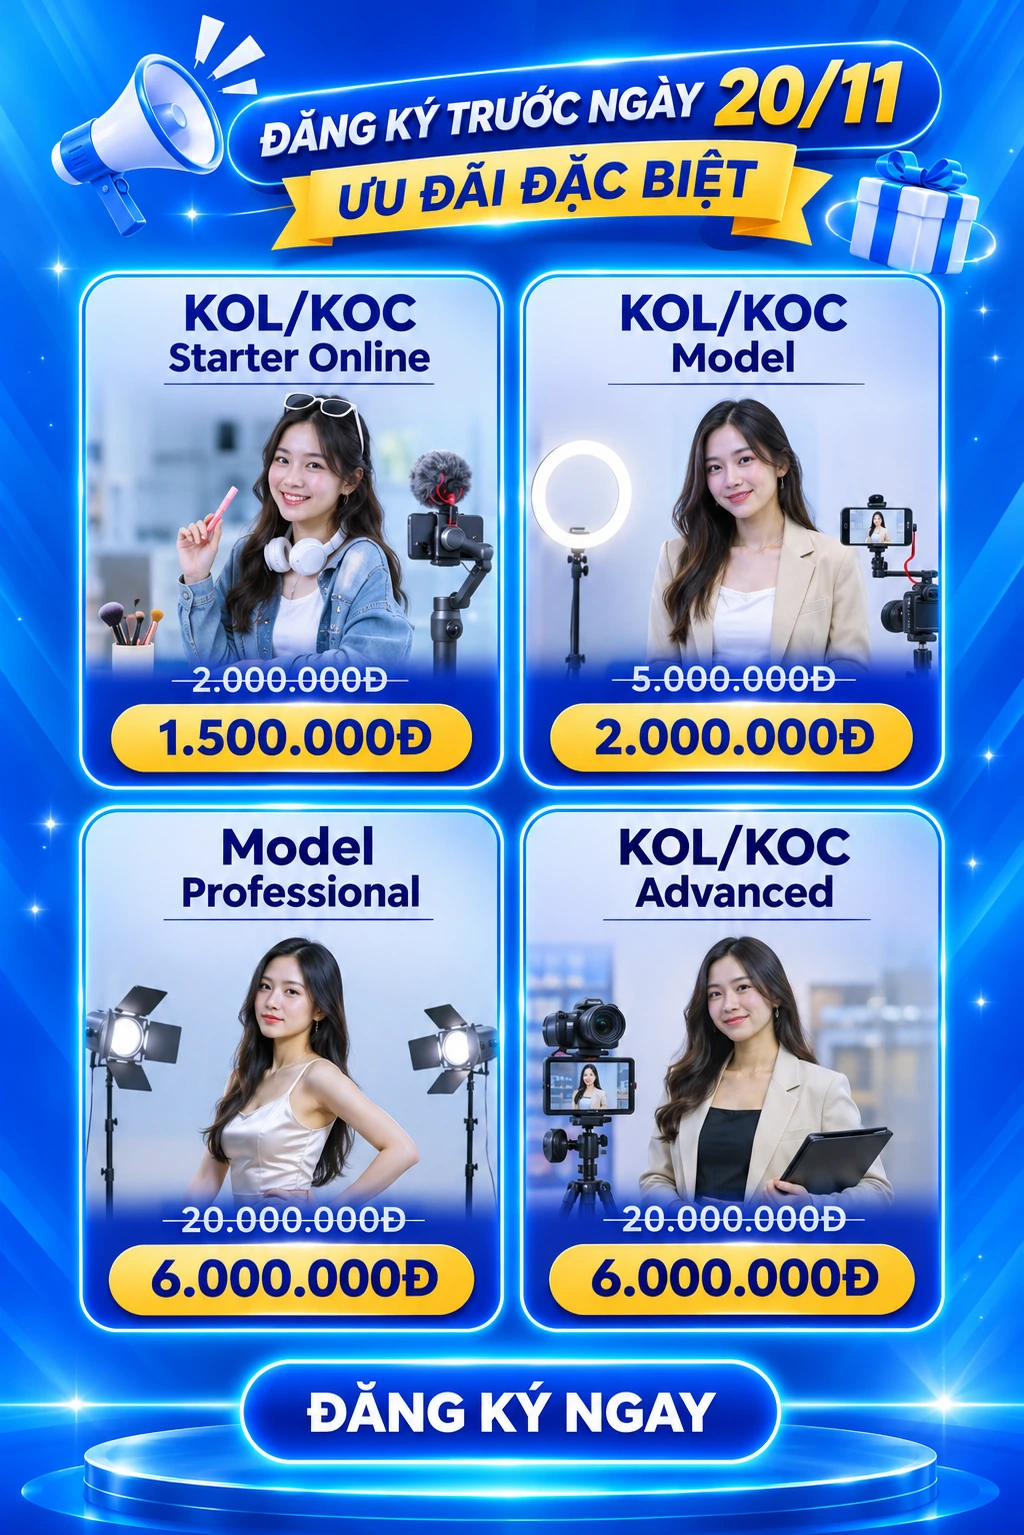
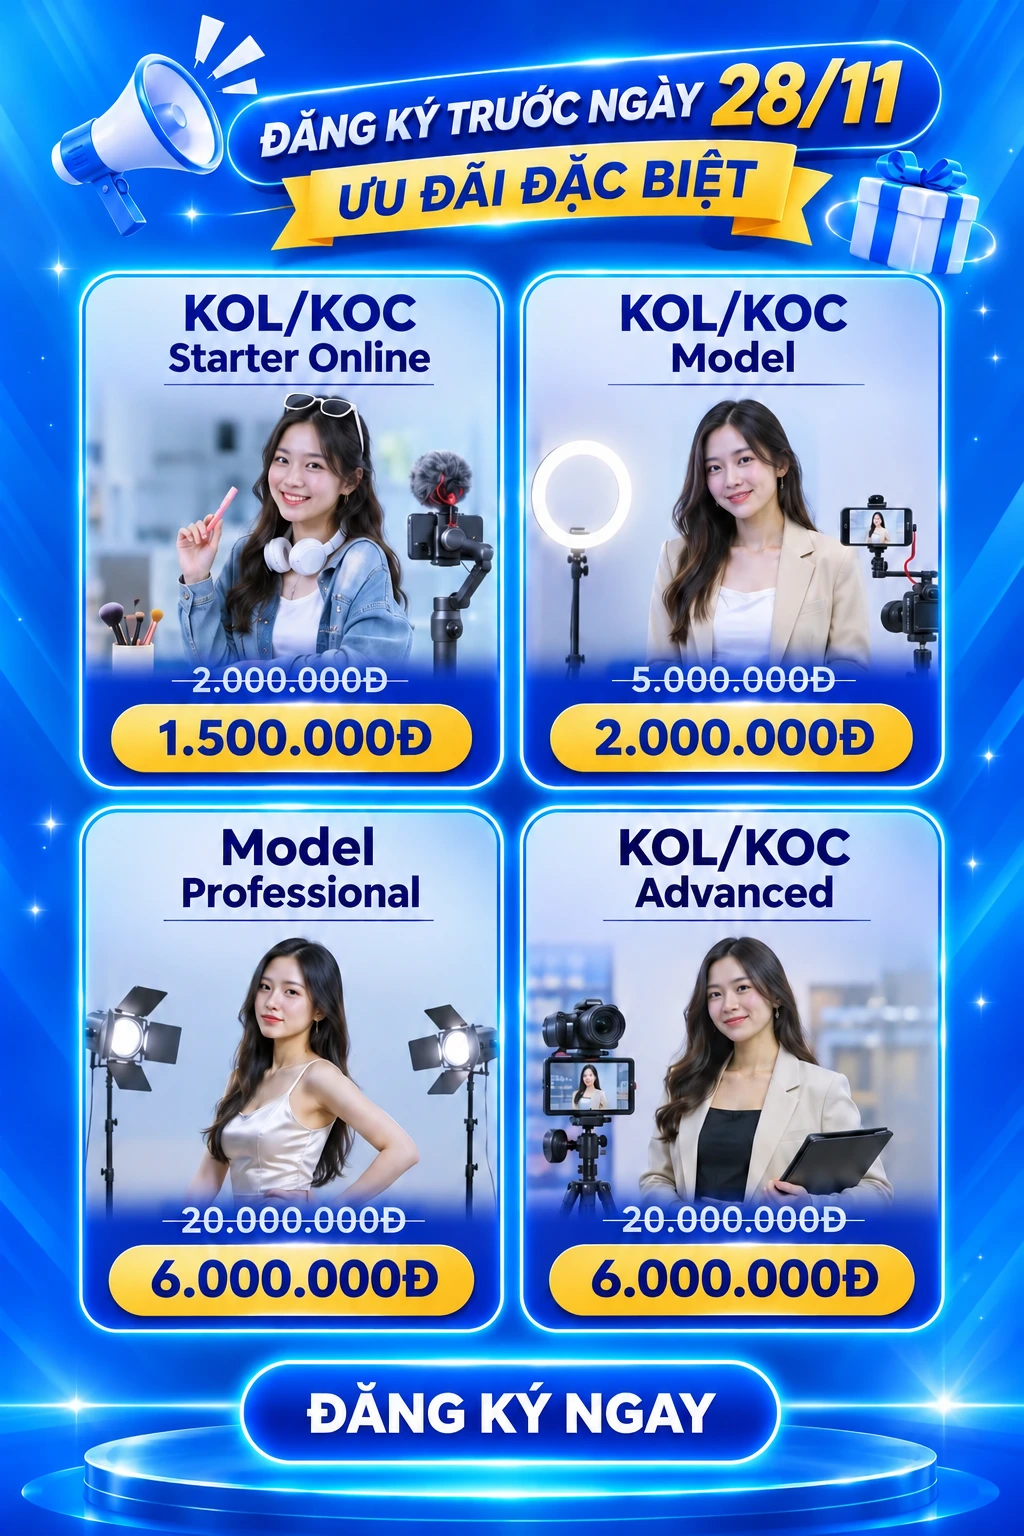
refactor: update image and add 1 item for gift

diff --git a/index.html b/index.html
@@ -16,8 +16,8 @@
   <link rel="preload" as="image" href="assets/banner.webp" media="(min-width: 768px)" type="image/webp" fetchpriority="high">
   <link rel="preload" as="image" href="assets/bannermobile.webp" media="(max-width: 767px)" type="image/webp" fetchpriority="high">
   <link rel="stylesheet" href="css/swiper-bundle.min.css">
-  <link rel="stylesheet" href="css/style.css?v=146">
-  <link rel="stylesheet" href="css/responsive.css?v=114">
+  <link rel="stylesheet" href="css/style.css?v=154">
+  <link rel="stylesheet" href="css/responsive.css?v=115">
   <script src="js/swiper-bundle.min.js" defer></script>
   <script src="js/content.js?v=7" defer></script>
   <script src="js/main.js?v=43" defer></script>
@@ -210,6 +210,37 @@
           </div>
         </div>
 
+        <div class="about-gallery">
+          <figure class="about-gallery-card about-gallery-card--wide">
+            <div class="about-gallery-frame">
+              <img src="assets/intros/gioithieu1.webp" width="1200" height="800" loading="lazy" decoding="async"
+                alt="Ảnh tập thể tại sự kiện Bật tự tin">
+            </div>
+            <figcaption>Toàn thể nhân viên công ty ADA Group</figcaption>
+          </figure>
+          <figure class="about-gallery-card">
+            <div class="about-gallery-frame">
+              <img src="assets/intros/gioithieu2.webp" width="1020" height="701" loading="lazy" decoding="async"
+                alt="Hai khách mời trò chuyện trên sân khấu">
+            </div>
+            <figcaption>Nhạc sĩ & Ca sĩ Bằng Cường và Ca sĩ Bảo Anh Gemini</figcaption>
+          </figure>
+          <figure class="about-gallery-card">
+            <div class="about-gallery-frame">
+              <img src="assets/intros/gioithieu3.webp" width="1200" height="800" loading="lazy" decoding="async"
+                alt="Khách mời cầm hoa cạnh poster sự kiện">
+            </div>
+            <figcaption>Á hậu Doanh nhân Đặng Thị Tân</figcaption>
+          </figure>
+          <figure class="about-gallery-card about-gallery-card--wide">
+            <div class="about-gallery-frame">
+              <img src="assets/intros/gioithieu4.webp" width="1200" height="800" loading="lazy" decoding="async"
+                alt="Diễn giả chia sẻ với người tham dự">
+            </div>
+            <figcaption>ThS. Diễn viên & Ca sĩ Hoàng Nam</figcaption>
+          </figure>
+        </div>
+
         <div class="pillars-grid">
           <article class="pillar-card">
             <div class="pillar-card-top">
@@ -363,15 +394,15 @@
           <article class="gift-row">
             <div class="gift-row-media">
               <span class="card-shine" aria-hidden="true"></span>
-              <img src="assets/anh5.webp" alt="Xây dựng hình ảnh cá nhân chuyên nghiệp" width="2400" height="1792"
+              <img src="assets/anh5-1.webp" alt="Studio livestream idol tại công ty" width="1951" height="1458"
                 loading="lazy" decoding="async">
             </div>
             <div class="gift-row-body">
               <span class="gift-row-index" aria-hidden="true">06</span>
-              <h3>Stylist tóc, makeup, quay chụp &amp; xây dựng hình ảnh cá nhân chuyên nghiệp</h3>
-              <p>Được hỗ trợ trọn gói stylist tóc, makeup và quay chụp định hình phong cách: mỗi tuần sẽ được chụp 1 bộ
-                ảnh xây dựng thương hiệu cá nhân chuyên nghiệp và được chụp ảnh các sản phẩm đang bán một cách chuyên
-                nghiệp.</p>
+              <h3>Trải nghiệm tại studio livestream Idol của công ty</h3>
+              <p>Khi tham gia khóa học, học viên được sử dụng studio tại công ty và trực tiếp tham gia các buổi
+                livestream Idol. Tại đây, học viên có cơ hội thử dẫn một phần buổi phát sóng, luyện cách giữ nhịp
+                trò chuyện và phản hồi bình luận của người xem ngay trên sóng.</p>
             </div>
           </article>
 
@@ -379,11 +410,27 @@
           <article class="gift-row">
             <div class="gift-row-media">
               <span class="card-shine" aria-hidden="true"></span>
-              <img src="assets/anh6.webp" alt="Đặc quyền mua sắm – Voucher giảm giá 30%" width="2400" height="1792"
+              <img src="assets/anh5.webp" alt="Xây dựng hình ảnh cá nhân chuyên nghiệp" width="2400" height="1792"
                 loading="lazy" decoding="async">
             </div>
             <div class="gift-row-body">
               <span class="gift-row-index" aria-hidden="true">07</span>
+              <h3>Stylist tóc, makeup, quay chụp &amp; xây dựng hình ảnh cá nhân chuyên nghiệp</h3>
+              <p>Được hỗ trợ trọn gói stylist tóc, makeup và quay chụp định hình phong cách: mỗi tuần sẽ được chụp 1 bộ
+                ảnh xây dựng thương hiệu cá nhân chuyên nghiệp và được chụp ảnh các sản phẩm đang bán một cách chuyên
+                nghiệp.</p>
+            </div>
+          </article>
+
+          <!-- Item 08 -->
+          <article class="gift-row">
+            <div class="gift-row-media">
+              <span class="card-shine" aria-hidden="true"></span>
+              <img src="assets/anh6.webp" alt="Đặc quyền mua sắm – Voucher giảm giá 30%" width="2400" height="1792"
+                loading="lazy" decoding="async">
+            </div>
+            <div class="gift-row-body">
+              <span class="gift-row-index" aria-hidden="true">08</span>
               <h3>Đặc quyền mua sắm – Voucher giảm giá 30%</h3>
               <p>Sở hữu voucher giảm giá 30% thương hiệu thời trang, túi xách, nước hoa trị giá hàng chục triệu đồng và
                 tất cả các dịch vụ truyền thông, phần mềm seeding của công ty.</p>
@@ -613,7 +660,7 @@
                     <circle cx="12" cy="12" r="10"></circle>
                     <polyline points="12 6 12 12 16 14"></polyline>
                   </svg>
-                  <span>Áp dụng đăng ký ngay <strong>trước ngày 20/11</strong></span>
+                  <span>Áp dụng đăng ký ngay <strong>trước ngày 28/11</strong></span>
                 </div>
               </div>
 
@@ -677,7 +724,7 @@
                     <circle cx="12" cy="12" r="10"></circle>
                     <polyline points="12 6 12 12 16 14"></polyline>
                   </svg>
-                  <span>Áp dụng đăng ký ngay <strong>trước ngày 20/11</strong></span>
+                  <span>Áp dụng đăng ký ngay <strong>trước ngày 28/11</strong></span>
                 </div>
               </div>
 
@@ -741,7 +788,7 @@
                     <circle cx="12" cy="12" r="10"></circle>
                     <polyline points="12 6 12 12 16 14"></polyline>
                   </svg>
-                  <span>Áp dụng đăng ký ngay <strong>trước ngày 20/11</strong></span>
+                  <span>Áp dụng đăng ký ngay <strong>trước ngày 28/11</strong></span>
                 </div>
               </div>
 
@@ -805,7 +852,7 @@
                     <circle cx="12" cy="12" r="10"></circle>
                     <polyline points="12 6 12 12 16 14"></polyline>
                   </svg>
-                  <span>Áp dụng đăng ký ngay <strong>trước ngày 20/11</strong></span>
+                  <span>Áp dụng đăng ký ngay <strong>trước ngày 28/11</strong></span>
                 </div>
               </div>
 
@@ -1184,7 +1231,7 @@
 
         <div class="roadmap-modal-footer">
           <div class="roadmap-footer-price">
-            <span class="roadmap-footer-label">Học phí ưu đãi đặc quyền (trước 20/11):</span>
+            <span class="roadmap-footer-label">Học phí ưu đãi đặc quyền (trước 28/11):</span>
             <div class="roadmap-footer-values">
               <del id="roadmap-footer-old">2.000.000đ</del>
               <strong id="roadmap-footer-deal">1.500.000đ</strong>

diff --git a/css/style.css b/css/style.css
@@ -2607,6 +2607,97 @@ body.banner-modal-open .banner-reopen-btn.has-back-to-top {
   text-align-last: left;
 }
 
+.about-gallery {
+  display: grid;
+  grid-template-columns: repeat(12, minmax(0, 1fr));
+  grid-auto-rows: clamp(250px, 28vw, 370px);
+  gap: clamp(12px, 1.6vw, 20px);
+  margin-bottom: clamp(24px, 3.2vw, 42px);
+}
+
+.about-gallery-card {
+  position: relative;
+  grid-column: span 5;
+  margin: 0;
+  border-radius: 20px;
+  overflow: hidden;
+}
+
+.about-gallery-card--wide {
+  grid-column: span 7;
+}
+
+.about-gallery-frame {
+  position: relative;
+  isolation: isolate;
+  height: 100%;
+  overflow: hidden;
+}
+
+.about-gallery-frame img {
+  display: block;
+  width: 100%;
+  height: 100%;
+  object-fit: cover;
+}
+
+.about-gallery-card figcaption {
+  position: absolute;
+  z-index: 1;
+  inset-inline-start: 12px;
+  bottom: 12px;
+  width: fit-content;
+  max-width: calc(100% - 24px);
+  padding: 4px 8px;
+  border: 1px solid rgba(24, 32, 61, 0.12);
+  border-radius: 6px;
+  background: #eaf1ff;
+  color: #243f78;
+  box-shadow: 0 2px 8px rgba(24, 32, 61, 0.14);
+  font-size: 0.75rem;
+  font-weight: 600;
+  line-height: 1.4;
+}
+
+@media (min-width: 601px) and (max-width: 900px) {
+  .about-gallery-card,
+  .about-gallery-card--wide {
+    grid-column: span 6;
+  }
+}
+
+@media (max-width: 600px) {
+  .about-gallery {
+    grid-template-columns: 1fr;
+    grid-auto-rows: auto;
+  }
+
+  .about-gallery-card,
+  .about-gallery-card--wide {
+    grid-column: auto;
+    aspect-ratio: 3 / 2;
+  }
+}
+
+@media (hover: hover) and (prefers-reduced-motion: no-preference) {
+  .about-gallery-card {
+    transition: transform 0.45s cubic-bezier(0.16, 1, 0.3, 1);
+  }
+
+  .about-gallery-frame img {
+    transition: transform 0.65s cubic-bezier(0.16, 1, 0.3, 1), filter 0.4s ease;
+  }
+
+  .about-gallery-card:hover {
+    transform: translateY(-6px);
+  }
+
+  .about-gallery-card:hover img {
+    transform: scale(1.06);
+    filter: brightness(1.03);
+  }
+}
+
 .pillars-grid {
   display: grid;
   grid-template-columns: repeat(3, minmax(0, 1fr));
@@ -2873,7 +2964,8 @@ body.banner-modal-open .banner-reopen-btn.has-back-to-top {
 }
 
 /* Hiệu ứng quét tia sáng khi hover */
-.gift-row-media .card-shine {
+.gift-row-media .card-shine,
+.about-gallery-frame::after {
   position: absolute;
   top: -50%;
   left: -60%;
@@ -2892,9 +2984,20 @@ body.banner-modal-open .banner-reopen-btn.has-back-to-top {
   opacity: 0;
 }
 
+.about-gallery-frame::after {
+  content: "";
+}
+
 .gift-row:hover .card-shine {
   transform: rotate(25deg) translateY(100%);
   opacity: 1;
+}
+
+@media (hover: hover) and (prefers-reduced-motion: no-preference) {
+  .about-gallery-card:hover .about-gallery-frame::after {
+    transform: rotate(25deg) translateY(100%);
+    opacity: 1;
+  }
 }
 
 /* Nội dung: số thứ tự, tiêu đề, mô tả */

diff --git a/css/responsive.css b/css/responsive.css
@@ -758,6 +758,16 @@
   .section-heading-split .heading-title-wrap { margin-bottom: 14px; }
   .section-heading-split .section-lead { font-size: 14px; line-height: 1.7; }
   .about-header { margin-bottom: 28px; }
+  #about {
+    --about-card-gap: 18px;
+  }
+  #about .about-gallery,
+  #about .pillars-grid {
+    gap: var(--about-card-gap);
+  }
+  #about .about-gallery {
+    margin-bottom: var(--about-card-gap);
+  }
   .about-title-wrap { margin-bottom: 14px; }
   .about-lead-copy p,
   .about-desc { font-size: 14px; line-height: 1.7; }
